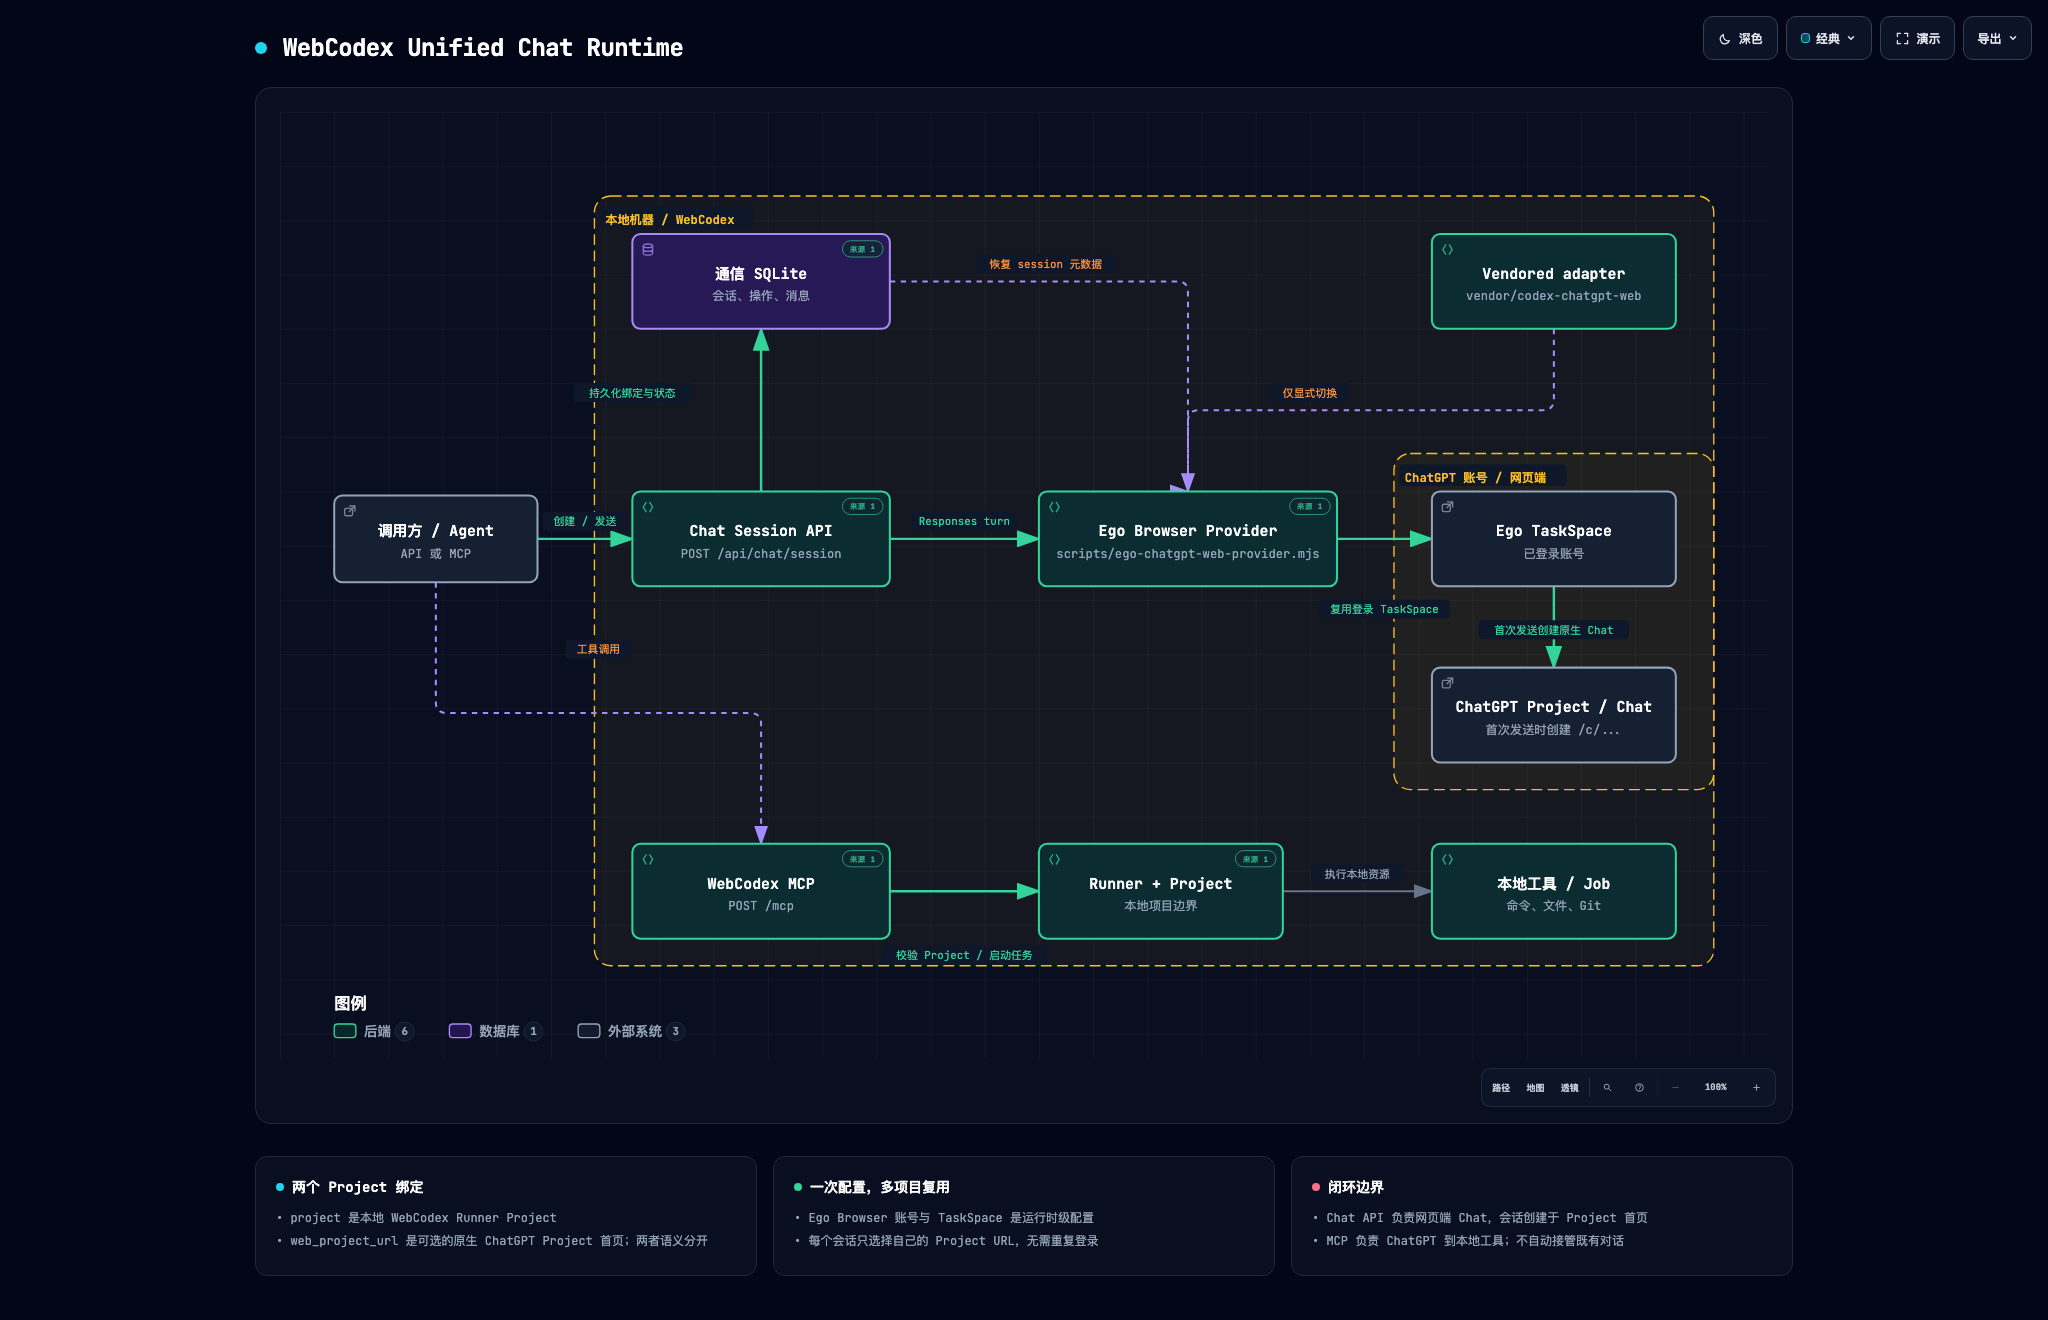
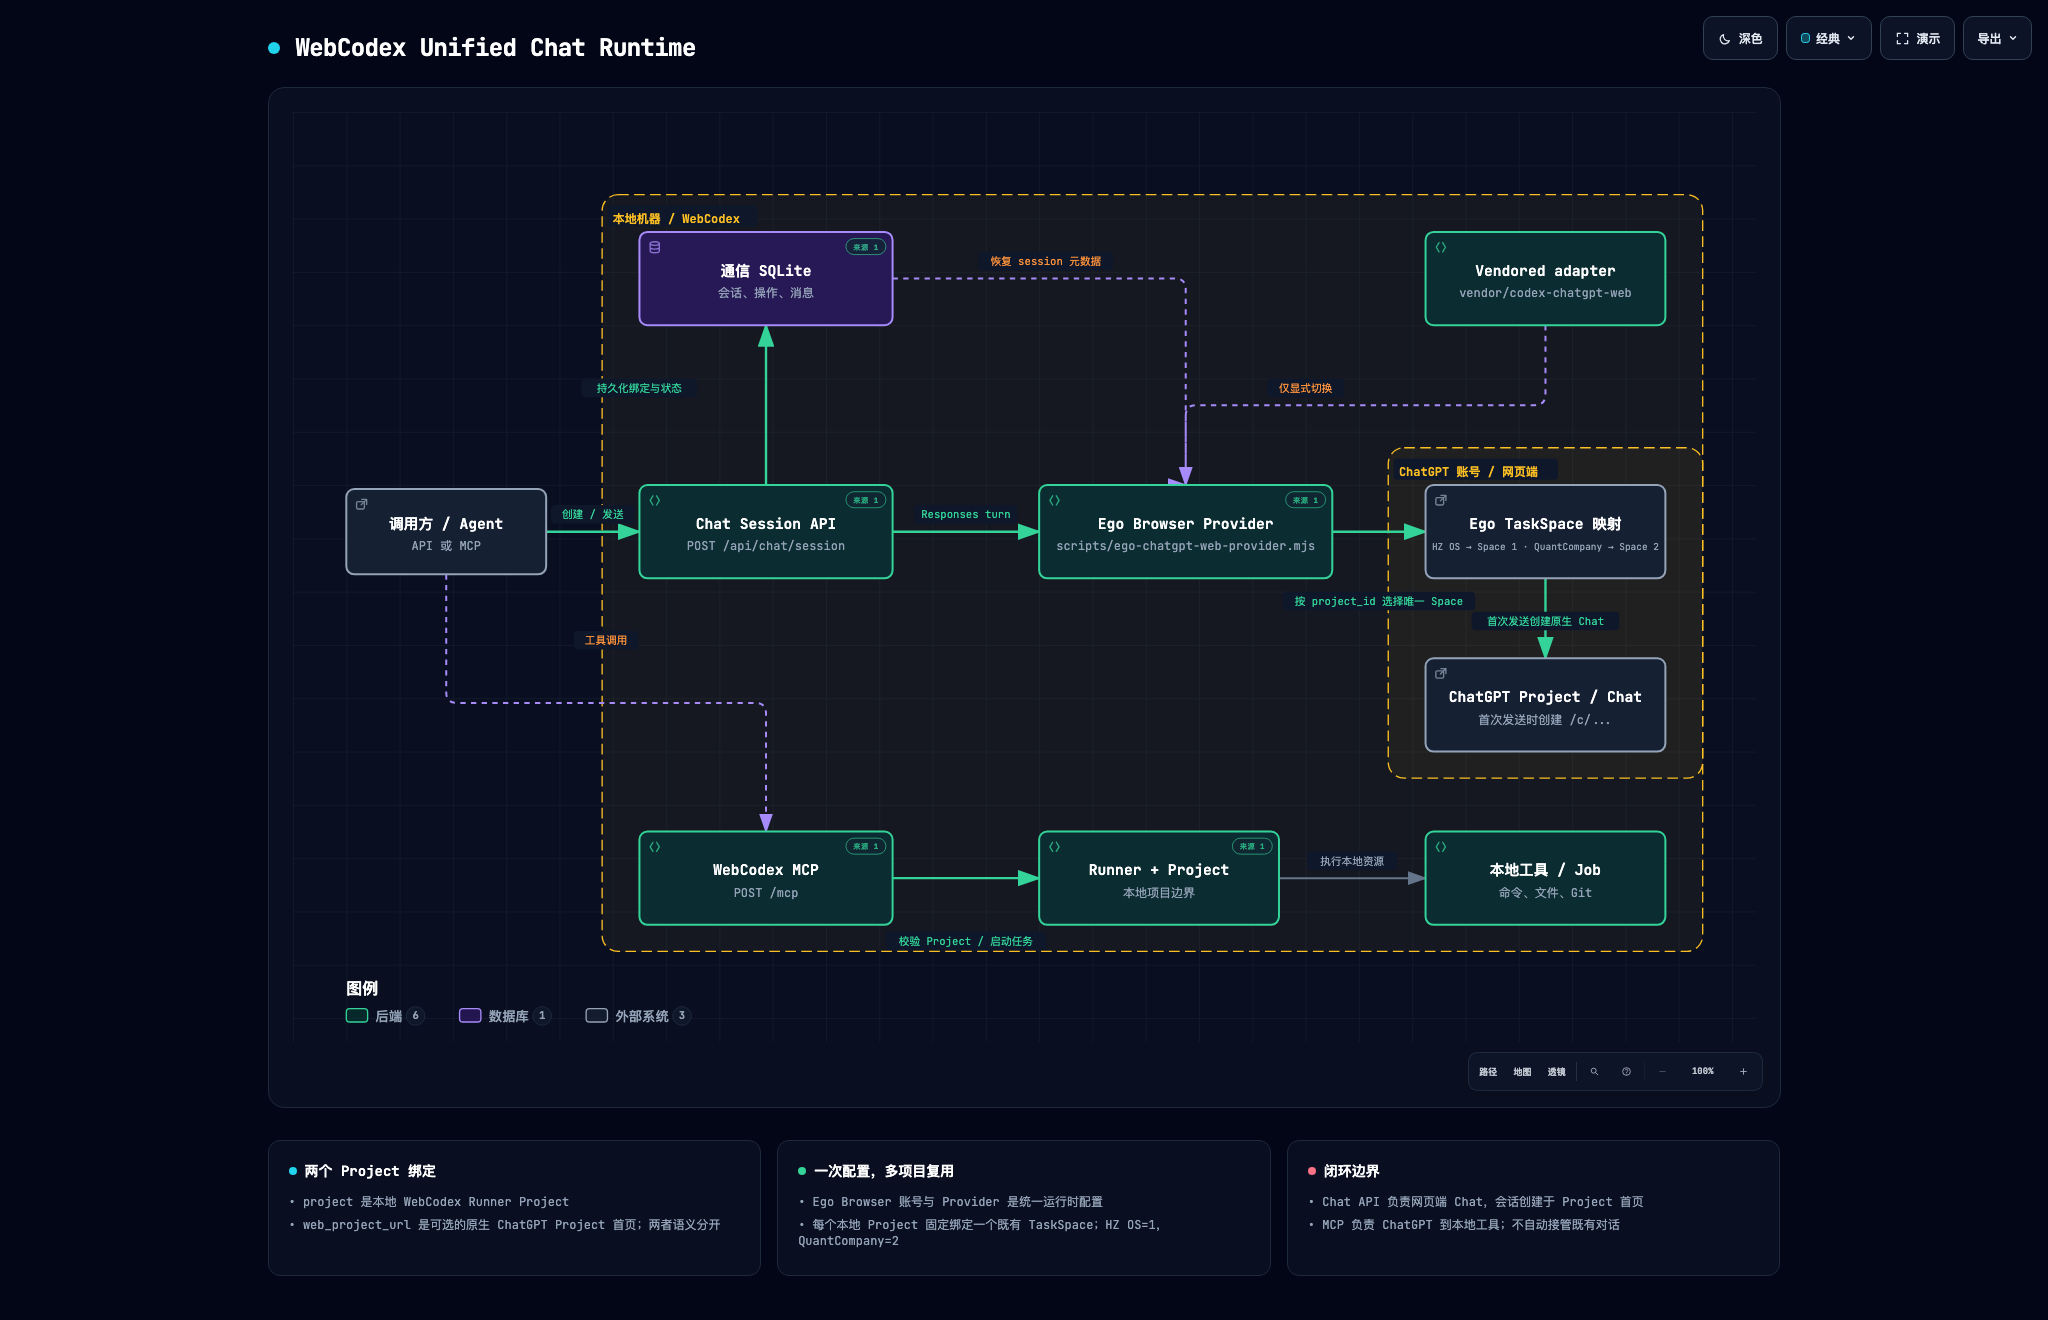
docs: document project TaskSpace bindings

diff --git a/docs/architecture/archify/runtime.architecture.html b/docs/architecture/archify/runtime.architecture.html
@@ -5166,7 +5166,7 @@ OTHER DEALINGS IN THE FONT SOFTWARE.
         <path data-edge-from="chat_api" data-edge-to="store" data-edge-label="持久化绑定与状态" data-edge-key="2" data-edge-id="chat-store" data-composition-points="355,280;355,220;355,220;355,160" d="M 355 280 L 355 220 L 355 220 L 355 160" class="a-emphasis" stroke-width="1.8" marker-end="url(#arrowhead-emphasis)"/>
         <path data-edge-from="local_mcp" data-edge-to="runner" data-edge-label="校验 Project / 启动任务" data-edge-key="3" data-edge-id="mcp-runner" data-composition-points="450,575;505,575;505,575;560,575" d="M 450 575 L 505 575 L 505 575 L 560 575" class="a-emphasis" stroke-width="1.8" marker-end="url(#arrowhead-emphasis)"/>
         <path data-edge-from="chat_api" data-edge-to="provider" data-edge-label="Responses turn" data-edge-key="4" data-edge-id="chat-provider" data-composition-points="450,315;505,315;505,315;560,315" d="M 450 315 L 505 315 L 505 315 L 560 315" class="a-emphasis" stroke-width="1.8" marker-end="url(#arrowhead-emphasis)"/>
-        <path data-edge-from="provider" data-edge-to="taskspace" data-edge-label="复用登录 TaskSpace" data-edge-key="5" data-edge-id="provider-taskspace" data-composition-points="780,315;815,315;815,315;850,315" d="M 780 315 L 815 315 L 815 315 L 850 315" class="a-emphasis" stroke-width="1.8" marker-end="url(#arrowhead-emphasis)"/>
+        <path data-edge-from="provider" data-edge-to="taskspace" data-edge-label="按 project_id 选择唯一 Space" data-edge-key="5" data-edge-id="provider-taskspace" data-composition-points="780,315;815,315;815,315;850,315" d="M 780 315 L 815 315 L 815 315 L 850 315" class="a-emphasis" stroke-width="1.8" marker-end="url(#arrowhead-emphasis)"/>
         <path data-edge-from="taskspace" data-edge-to="web_project" data-edge-label="首次发送创建原生 Chat" data-edge-key="6" data-edge-id="taskspace-project" data-composition-points="940,350;940,410" d="M 940 350 L 940 410" class="a-emphasis" stroke-width="1.8" marker-end="url(#arrowhead-emphasis)"/>
         <path data-edge-from="runner" data-edge-to="local_tools" data-edge-label="执行本地资源" data-edge-key="7" data-edge-id="runner-tools" data-composition-points="740,575;795,575;795,575;850,575" d="M 740 575 L 795 575 L 795 575 L 850 575" class="a-default" stroke-width="1.5" marker-end="url(#arrowhead)"/>
         <path data-edge-from="fallback" data-edge-to="provider" data-edge-label="仅显式切换" data-edge-key="8" data-edge-id="fallback-provider" data-composition-points="940,160;940,220;670,220;670,280" d="M 940 160 L 940 212 Q 940 220 932 220 L 678 220 Q 670 220 670 228 L 670 280" class="a-dashed" stroke-width="1.5" marker-end="url(#arrowhead-dashed)"/>
@@ -5256,16 +5256,17 @@ OTHER DEALINGS IN THE FONT SOFTWARE.
         <text data-detail="context" x="940" y="589" class="t-muted" font-size="9" text-anchor="middle">命令、文件、Git</text>
         </g>
 
-        <g id="node-taskspace" data-node-id="taskspace" data-node-label="Ego TaskSpace" tabindex="0" role="button" aria-label="聚焦Ego TaskSpace，已登录账号, ChatGPT 账号 / 网页端" aria-pressed="false" data-node-kind="external" data-node-sublabel="已登录账号" data-node-context="ChatGPT 账号 / 网页端">
-          <title>Ego TaskSpace · 已登录账号 · ChatGPT 账号 / 网页端</title>
+        <g id="node-taskspace" data-node-id="taskspace" data-node-label="Ego TaskSpace 映射" tabindex="0" role="button" aria-label="聚焦Ego TaskSpace 映射，HZ OS → Space 1 · QuantCompany → Space 2, ChatGPT 账号 / 网页端" aria-pressed="false" data-node-kind="external" data-node-sublabel="HZ OS → Space 1 · QuantCompany → Space 2" data-node-tag="一个 Project 一个 Space" data-node-context="ChatGPT 账号 / 网页端">
+          <title>Ego TaskSpace 映射 · HZ OS → Space 1 · QuantCompany → Space 2 · ChatGPT 账号 / 网页端 · 一个 Project 一个 Space</title>
           <rect x="850" y="280" width="180" height="70" rx="6" class="c-mask"/>
           <rect x="850" y="280" width="180" height="70" rx="6" class="c-external" stroke-width="1.5"/>
           <g aria-hidden="true" data-semantic-sigil="external" class="semantic-sigil s-external" transform="translate(856 286) scale(0.6875)">
             <rect x="2.5" y="5" width="8.5" height="8" rx="1.5"/>
             <path d="M8 2.5h5.5V8M13.5 2.5 7.5 8.5"/>
           </g>
-          <text data-node-label="" data-detail-anchor="" x="940" y="313" class="t-primary" font-size="11" font-weight="600" text-anchor="middle">Ego TaskSpace</text>
-        <text data-detail="context" x="940" y="329" class="t-muted" font-size="9" text-anchor="middle">已登录账号</text>
+          <text data-node-label="" data-detail-anchor="" x="940" y="313" class="t-primary" font-size="11" font-weight="600" text-anchor="middle">Ego TaskSpace 映射</text>
+        <text data-detail="context" x="940" y="329" class="t-muted" font-size="7.1" text-anchor="middle">HZ OS → Space 1 · QuantCompany → Space 2</text>
+        <text data-detail="fine" x="940" y="342" class="t-external" font-size="7" text-anchor="middle">一个 Project 一个 Space</text>
         </g>
 
         <g id="node-web_project" data-node-id="web_project" data-node-label="ChatGPT Project / Chat" tabindex="0" role="button" aria-label="聚焦ChatGPT Project / Chat，首次发送时创建 /c/..., ChatGPT 账号 / 网页端" aria-pressed="false" data-node-kind="external" data-node-sublabel="首次发送时创建 /c/..." data-node-tag="可选 web_project_url" data-node-context="ChatGPT 账号 / 网页端">
@@ -5314,9 +5315,9 @@ OTHER DEALINGS IN THE FONT SOFTWARE.
           <rect x="466.4" y="295" width="77.2" height="14" rx="3" class="c-mask"/>
           <text x="505" y="305" class="t-backend" font-size="8" text-anchor="middle">Responses turn</text>
         </g>
-        <g data-detail="context" data-edge-from="provider" data-edge-to="taskspace" data-edge-label="复用登录 TaskSpace" data-edge-key="5" data-edge-id="provider-taskspace">
-          <rect x="766.8" y="360" width="96.39999999999999" height="14" rx="3" class="c-mask"/>
-          <text x="815" y="370" class="t-backend" font-size="8" text-anchor="middle">复用登录 TaskSpace</text>
+        <g data-detail="context" data-edge-from="provider" data-edge-to="taskspace" data-edge-label="按 project_id 选择唯一 Space" data-edge-key="5" data-edge-id="provider-taskspace">
+          <rect x="742.8" y="360" width="144.4" height="14" rx="3" class="c-mask"/>
+          <text x="815" y="370" class="t-backend" font-size="8" text-anchor="middle">按 project_id 选择唯一 Space</text>
         </g>
         <g data-detail="context" data-edge-from="taskspace" data-edge-to="web_project" data-edge-label="首次发送创建原生 Chat" data-edge-key="6" data-edge-id="taskspace-project">
           <rect x="884.6" y="375" width="110.8" height="14" rx="3" class="c-mask"/>
@@ -5565,8 +5566,8 @@ OTHER DEALINGS IN THE FONT SOFTWARE.
           <h3>一次配置，多项目复用</h3>
         </div>
         <ul>
-          <li>&bull; Ego Browser 账号与 TaskSpace 是运行时级配置</li>
-          <li>&bull; 每个会话只选择自己的 Project URL，无需重复登录</li>
+          <li>&bull; Ego Browser 账号与 Provider 是统一运行时配置</li>
+          <li>&bull; 每个本地 Project 固定绑定一个既有 TaskSpace；HZ OS=1，QuantCompany=2</li>
         </ul>
       </div>
 

diff --git a/docs/AGENT_ONBOARDING.zh-CN.md b/docs/AGENT_ONBOARDING.zh-CN.md
@@ -20,7 +20,7 @@ https://chatgpt.com/g/g-p-<project-id>-<slug>/project
 
 创建 WebCodex session 时保存这个 URL；第一次 `send` 会打开该 Project 首页并
 提交消息，ChatGPT 随后创建 `/c/<chat-id>` 对话。后续发送复用同一个 Ego
-Browser 页面和 TaskSpace。省略 `web_project_url` 时，Provider 打开
+Browser 页面和该 Project 绑定的 TaskSpace。省略 `web_project_url` 时，Provider 打开
 `https://chatgpt.com/`，创建普通的非 Project Chat。创建 WebCodex session
 本身不会在 ChatGPT 中创建 Chat，也不能事后把任意旧 Chat 认领进来。
 
@@ -76,9 +76,13 @@ scripts/webcodex-chat-runtime.sh setup
 scripts/webcodex-chat-runtime.sh start
 ```
 
-setup 只保存选定的数字 TaskSpace ID（默认在
-`~/.config/webcodex/ego`，也受 `XDG_CONFIG_HOME` 影响），复用现有账号，不复制
-Cookie，也不要求每个项目重复登录。需要固定已有 TaskSpace 时设置：
+setup 保存运行时状态（默认在 `~/.config/webcodex/ego`，也受
+`XDG_CONFIG_HOME` 影响），复用现有账号，不复制 Cookie，也不要求每个项目重复登录。
+每个本地 Project 必须在私有 `~/.config/webcodex/ego/project-spaces.json` 中绑定一个既有
+TaskSpace；需要单一 Space 的兼容部署才设置：
+
+可从 `config/ego/project-spaces.example.json` 开始，把占位符替换为本机准确的 WebCodex
+Project ID，并将结果保存到 `~/.config/webcodex/ego/project-spaces.json`，权限设为 `0600`。
 
 ```bash
 export WEBCODEX_EGO_SPACE_ID=<existing-space-id>
@@ -185,7 +189,7 @@ node "$ARCHIFY" visual-check docs/architecture/archify/runtime.architecture.html
 
 ## 复用边界
 
-- 一个登录账号和一个 Ego TaskSpace 可以服务多个 WebCodex 本地 Project。
+- 一个登录账号和一个 Provider 可以服务多个 WebCodex 本地 Project；每个 Project 固定绑定一个既有 Ego TaskSpace。
 - 每个 session 都必须绑定一个本地 `project`；网页归属用可选的
   `web_project_url` 单独声明。
 - 原生 ChatGPT Project 的可见性、账号权限和网页 UI 由 ChatGPT/Ego 控制；

diff --git a/docs/AGENT_ONBOARDING.md b/docs/AGENT_ONBOARDING.md
@@ -50,11 +50,16 @@ scripts/webcodex-chat-runtime.sh setup
 scripts/webcodex-chat-runtime.sh start
 ```
 
-The setup reuses the signed-in Ego Browser account and stores only the numeric
-TaskSpace ID under `~/.config/webcodex/ego` (or `$XDG_CONFIG_HOME/webcodex/ego`).
-Set `WEBCODEX_EGO_SPACE_ID` to reuse an existing TaskSpace. Do not copy cookies or
-repeat browser setup per project. On a machine without Ego Browser, use the
-explicit fallback:
+The setup reuses the signed-in Ego Browser account and stores runtime state under
+`~/.config/webcodex/ego` (or `$XDG_CONFIG_HOME/webcodex/ego`). Each local Project
+must map to one existing Ego TaskSpace in the private
+`ego/project-spaces.json`; do not copy cookies or repeat browser setup per
+project. Set `WEBCODEX_EGO_SPACE_ID` only for a single-space legacy setup. On a
+machine without Ego Browser, use the explicit fallback:
+
+Start the mapping from `config/ego/project-spaces.example.json`, replace the
+placeholder IDs with the exact local WebCodex Project IDs, and keep the result
+at `~/.config/webcodex/ego/project-spaces.json` with mode `0600`.
 
 ```bash
 export WEBCODEX_CHATGPT_WEB_PROVIDER=codex-chatgpt-web
@@ -89,7 +94,7 @@ surface smoke test](MCP.md#chatgpt-work-surface-smoke-test).
 | --- | --- | --- |
 | Rust/Cargo | Build and run WebCodex | System toolchain; repo `Cargo.toml`/`Cargo.lock` |
 | WebCodex Server/Runner | Local service | This repository or an existing deployment |
-| Ego Browser | ChatGPT Web provider | macOS app/account; TaskSpace ID in `~/.config/webcodex/ego` |
+| Ego Browser | ChatGPT Web provider | macOS app/account; Project-to-TaskSpace map in `~/.config/webcodex/ego/project-spaces.json` |
 | `codex-chatgpt-web` | Explicit provider fallback | `vendor/codex-chatgpt-web` |
 | Archify | Documentation only | `~/.agents/skills/archify` |
 | Tunnel/HTTPS | Remote access when needed | System or Desktop/deployment configuration |
@@ -112,4 +117,3 @@ node "$ARCHIFY" visual-check docs/architecture/archify/runtime.architecture.html
 ```
 
 For the complete Chinese handoff, see [AGENT_ONBOARDING.zh-CN.md](AGENT_ONBOARDING.zh-CN.md).
-
